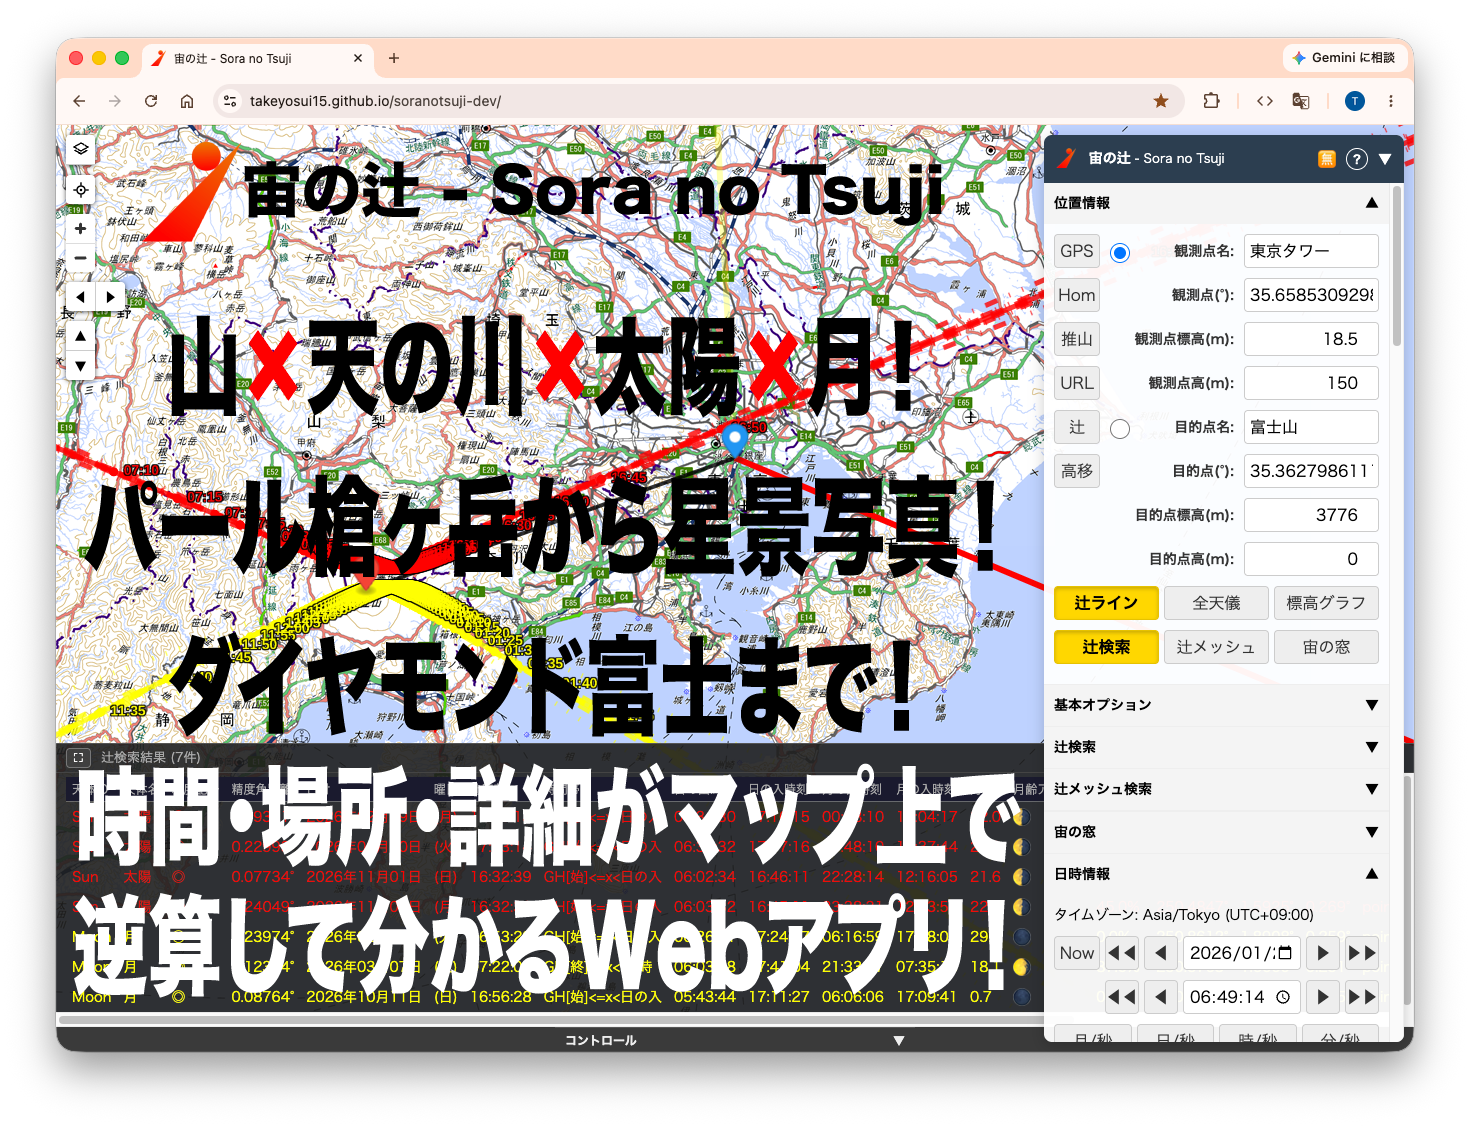
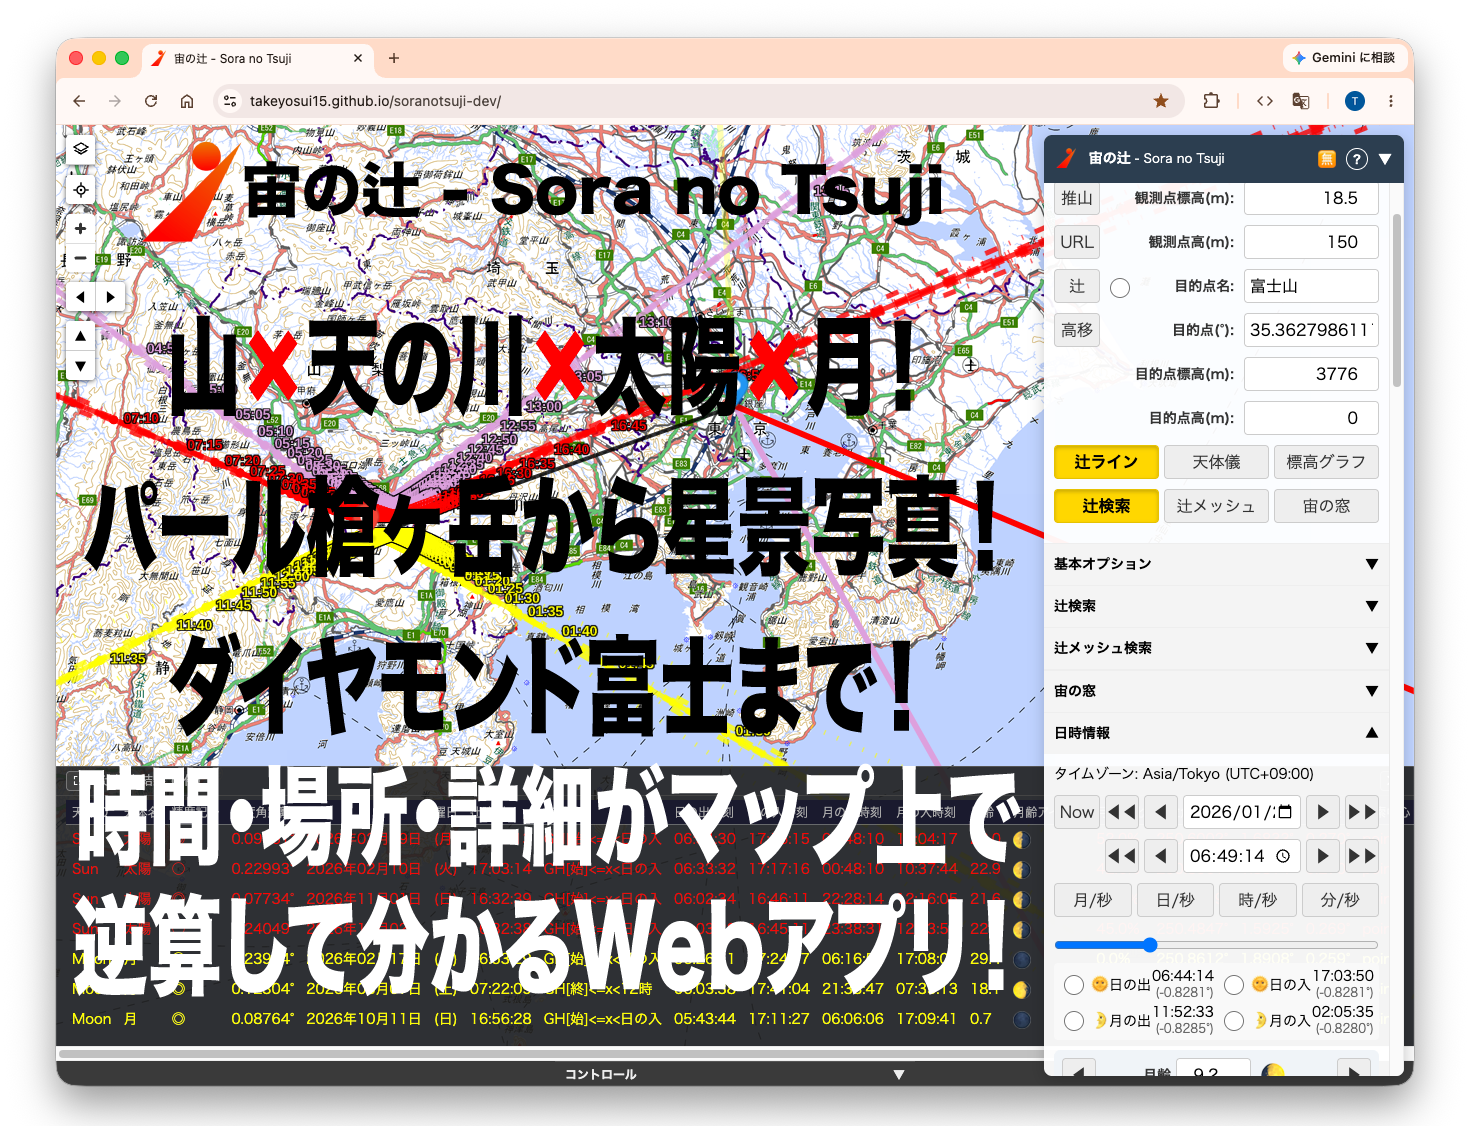
OGP画像のバージョンを5に更新

diff --git a/index.html b/index.html
@@ -22,13 +22,13 @@ GNU General Public License for more details.
     <meta property="og:description" content="天の川/太陽/月/天体の位置を検索して、狙った構図の日時・場所まで逆算して確認できる。天の川富士/ダイヤモンド富士/パール富士のみならず、天の川槍ヶ岳/ダイヤモンド槍ヶ岳/パール槍ヶ岳から天の川百名山/ダイヤモンド百名山/パール百名山も可能かも。">
     <meta property="og:type" content="website">
     <meta property="og:url" content="https://soranotsuji.net/">
-    <meta property="og:image" content="https://soranotsuji.net/ogp.png?v=4">
+    <meta property="og:image" content="https://soranotsuji.net/ogp.png?v=5">
     <meta property="og:site_name" content="宙の辻">
     <meta property="og:locale" content="ja_JP">
     <meta name="twitter:card" content="summary_large_image">
     <meta name="twitter:title" content="宙の辻 - Sora no Tsuji">
     <meta name="twitter:description" content="天の川/太陽/月/天体の位置を検索して、狙った構図の日時・場所まで逆算して確認できる。天の川富士/ダイヤモンド富士/パール富士のみならず、天の川槍ヶ岳/ダイヤモンド槍ヶ岳/パール槍ヶ岳から天の川百名山/ダイヤモンド百名山/パール百名山も可能かも。">
-    <meta name="twitter:image" content="https://soranotsuji.net/ogp.png?v=4">
+    <meta name="twitter:image" content="https://soranotsuji.net/ogp.png?v=5">
     <meta name="google-site-verification" content="U7ZpT_pBinlYJOZLdc1AZtTrb5IXSjZYlBcFo38w8kM" />
     <title>宙の辻 - Sora no Tsuji</title>
     
